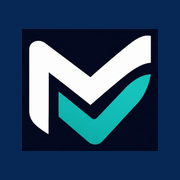
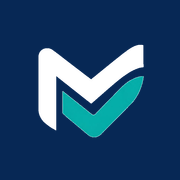
Finalize MedVerse branding and PWA cache version

diff --git a/src/app/page.tsx b/src/app/page.tsx
@@ -1,6 +1,6 @@
 import Link from "next/link";
-import Image from "next/image";
 import { Button } from "@/components/ui/button";
+import { Logo } from "@/components/logo";
 
 export default function Home() {
   return (
@@ -13,18 +13,7 @@ export default function Home() {
         }}
       />
       <header className="relative flex items-center justify-between px-6 py-5">
-        <div className="flex items-center gap-2">
-          <Image
-            src="/logo-icon.png"
-            alt="MedVerse"
-            width={32}
-            height={32}
-            priority
-          />
-          <span className="text-lg font-bold tracking-tight">
-            Med<span className="text-[#05AEA9]">Verse</span>
-          </span>
-        </div>
+        <Logo size={32} />
         <div className="flex gap-2">
           <Button asChild variant="ghost" className="text-white hover:bg-white/10 hover:text-white">
             <Link href="/login">Sign in</Link>

diff --git a/src/components/logo.tsx b/src/components/logo.tsx
@@ -9,13 +9,13 @@ export function Logo({
   size?: number;
   withWordmark?: boolean;
   className?: string;
-  /** true when rendered on a light background (uses dark navy wordmark text) */
+  /** true when rendered on a light background (navy mark + dark wordmark) */
   dark?: boolean;
 }) {
   return (
     <div className={`flex items-center gap-2 ${className}`}>
       <Image
-        src="/logo-icon.png"
+        src={dark ? "/logo-icon.png" : "/logo-icon-on-dark.png"}
         alt="MedVerse"
         width={size}
         height={size}

diff --git a/src/lib/pwa/cache-policy.ts b/src/lib/pwa/cache-policy.ts
@@ -5,13 +5,14 @@
  * Cache only hashed Next static files and public branding. Never intercept
  * HTML/RSC, PostgREST, Auth, signed R2 URLs, exam payloads, or API routes.
  */
-export const PWA_CACHE_NAME = "medverse-static-v1";
+export const PWA_CACHE_NAME = "medverse-static-v2";
 export const PWA_SW_PATH = "/sw.js";
 
 export const PWA_CACHEABLE_PATH_PREFIXES = ["/_next/static/", "/icons/"] as const;
 
 export const PWA_CACHEABLE_PATHS = [
   "/logo-icon.png",
+  "/logo-icon-on-dark.png",
   "/logo-full.png",
 ] as const;
 

diff --git a/public/sw.js b/public/sw.js
@@ -6,10 +6,10 @@
  *
  * Keep deny/allow lists aligned with src/lib/pwa/cache-policy.ts.
  */
-const CACHE_NAME = "medverse-static-v1";
+const CACHE_NAME = "medverse-static-v2";
 
 const CACHEABLE_PREFIXES = ["/_next/static/", "/icons/"];
-const CACHEABLE_PATHS = ["/logo-icon.png", "/logo-full.png"];
+const CACHEABLE_PATHS = ["/logo-icon.png", "/logo-icon-on-dark.png", "/logo-full.png"];
 const NEVER_PREFIXES = [
   "/rest/v1",
   "/auth/v1",

diff --git a/tests/unit/pwa-cache-policy.test.ts b/tests/unit/pwa-cache-policy.test.ts
@@ -34,6 +34,13 @@ describe("PWA cache policy", () => {
       }),
       true
     );
+    assert.equal(
+      isCacheableStaticAsset({
+        method: "GET",
+        url: `${origin}/logo-icon-on-dark.png`,
+      }),
+      true
+    );
   });
 
   it("never caches navigations, RSC, PostgREST, Auth, or APIs", () => {

diff --git a/docs/architecture.md b/docs/architecture.md
@@ -15,11 +15,13 @@ This is a **one-academy, one-time LMS**, not a multi-tenant SaaS product. `tenan
 
 MedVerse Healthcare identity: navy `#072855` + teal `#05AEA9`, sampled directly
 from the logo at `public/logo-icon.png` (source: `public/logo-full.png`).
-Theme tokens live in `src/app/globals.css`; the shared `Logo` component
-(`src/components/logo.tsx`) is the only place the wordmark/icon combination
-should be assembled — reuse it rather than re-implementing. If the logo is
-ever replaced, re-sample these two hex values from the new asset and update
-both this doc and `globals.css`.
+Use `public/logo-icon.png` (navy + teal) on light backgrounds and
+`public/logo-icon-on-dark.png` (white + teal) on navy/blue backgrounds —
+the shared `Logo` component (`src/components/logo.tsx`) picks the variant via
+its `dark` prop and is the only place the wordmark/icon combination should be
+assembled. Theme tokens live in `src/app/globals.css`. If the logo is ever
+replaced, re-sample these two hex values from the new asset and update both
+this doc and `globals.css`.
 
 ## Progressive Web App
 
